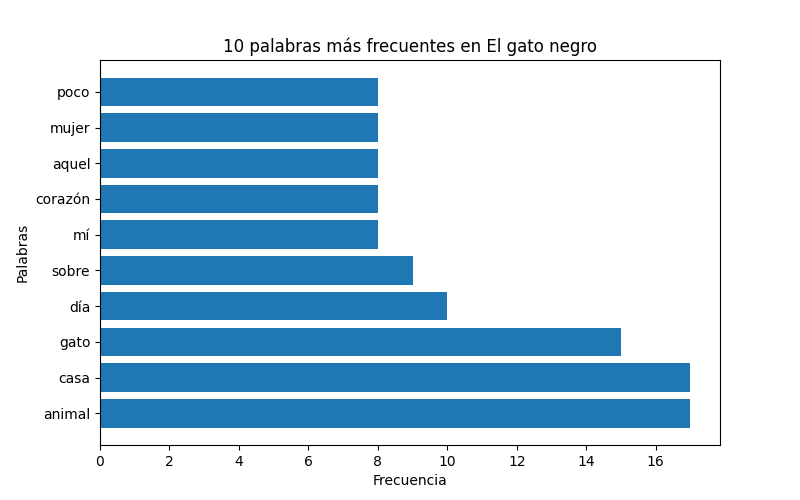
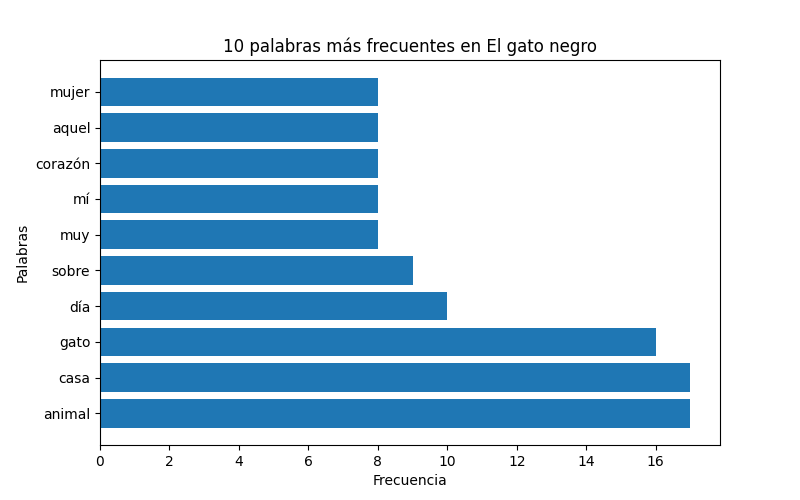
Avances reto

diff --git a/Reto final/menu.py b/Reto final/menu.py
@@ -1,10 +1,15 @@
 from pathlib import Path
 import matplotlib.pyplot as plt
-
-
+conectores = [
+    "de", "la", "el", "y", "que", "en", "un", "una", "los", "las",
+    "a", "con", "por", "para", "del", "se", "al", "es", "mi", "me",
+    "no", "lo", "más", "su", "sus", "tu", "te", "le", "les", "como",
+    "pero", "si", "sí", "ya", "o", "u", "ha", "hay", "fue", "era",
+    "ser", "son", "mis", "sin", "cuando", "había", "vez", "hasta"
+]
+signos = [".", ",", ";", ":", "¿", "?", "¡", "!", '"', "(", ")", "-", "_", "\n"]
 def explorar_directorio():                                #Funcion para la primera opción menu principal
     ruta = input("Ingrese la ruta de la carpeta: ")
-
     carpeta = Path(ruta)
     print("\nArchivos encontrados:\n")
     for archivo in carpeta.iterdir():
@@ -46,56 +51,28 @@ def resumen_txt():                                        #Funcion de la primera
 
             lineas = archivo.readlines()
 
-        # Cantidad de líneas
-        cantidad_lineas = len(lineas)
+        cantidad_lineas = len(lineas)                    #Cantidad de lineas
 
-        # Unir todo el texto
-        texto = " ".join(lineas)
+        texto = " ".join(lineas)                         # Unir todo el texto
 
-        # Caracteres con espacios
-        caracteres_con_espacios = len(texto)
+        caracteres_con_espacios = len(texto)             # Caracteres con espacios
 
         # Caracteres sin espacios
         texto_sin_espacios = texto.replace(" ", "")
+        texto_sin_espacios = texto_sin_espacios.replace("\n", "")
         caracteres_sin_espacios = len(texto_sin_espacios)
 
-        # Separar texto en palabras
-        palabras = texto.split()
+        palabras = texto.split()                          # Separar texto en palabras
 
         palabras_limpias = []
-
-        # Lista de conectores
-        conectores = [
-           "de", "la", "el", "y", "que",
-    "en", "un", "una", "los", "las",
-    "a", "con", "por", "para",
-    "del", "se", "al", "es",
-    "mi", "me", "no", "lo", "más",
-    "su", "sus", "tu", "te",
-    "le", "les", "como", "pero",
-    "si", "sí", "ya", "o",
-    "u", "ha", "hay", "fue",
-    "era", "ser", "son","mis","sin",
-    "cuando","había","vez","hasta"
-
-        ]
 
         # Limpiar palabras
         for palabra in palabras:
 
             palabra = palabra.lower()
 
-            palabra = palabra.replace(".", "")
-            palabra = palabra.replace(",", "")
-            palabra = palabra.replace(";", "")
-            palabra = palabra.replace(":", "")
-            palabra = palabra.replace("¿", "")
-            palabra = palabra.replace("?", "")
-            palabra = palabra.replace("¡", "")
-            palabra = palabra.replace("!", "")
-            palabra = palabra.replace('"', "")
-            palabra = palabra.replace("(", "")
-            palabra = palabra.replace(")", "")
+            for signo in signos:
+                palabra = palabra.replace(signo, "")
 
             # Quitar conectores
             if palabra not in conectores and palabra != "":
@@ -112,8 +89,7 @@ def resumen_txt():                                        #Funcion de la primera
             else:
                 contador_palabras[palabra] = 1
 
-        # Convertir diccionario a lista
-        palabras_ordenadas = list(contador_palabras.items())
+        palabras_ordenadas = list(contador_palabras.items())           # Convertir diccionario a lista
 
         # Método burbuja
         for i in range(len(palabras_ordenadas)):
@@ -170,36 +146,13 @@ def graficar_palabras_frecuentes():                     #Función de la segunda 
 
         palabras_limpias = []
 
-        conectores = [
-            "de", "la", "el", "y", "que",
-    "en", "un", "una", "los", "las",
-    "a", "con", "por", "para",
-    "del", "se", "al", "es",
-    "mi", "me", "no", "lo", "más",
-    "su", "sus", "tu", "te",
-    "le", "les", "como", "pero",
-    "si", "sí", "ya", "o",
-    "u", "ha", "hay", "fue",
-    "era", "ser", "son","mis","sin",
-    "cuando","había","vez","hasta"
-        ]
-
         # Limpiar palabras
         for palabra in palabras:
 
             palabra = palabra.lower()
 
-            palabra = palabra.replace(".", "")
-            palabra = palabra.replace(",", "")
-            palabra = palabra.replace(";", "")
-            palabra = palabra.replace(":", "")
-            palabra = palabra.replace("¿", "")
-            palabra = palabra.replace("?", "")
-            palabra = palabra.replace("¡", "")
-            palabra = palabra.replace("!", "")
-            palabra = palabra.replace('"', "")
-            palabra = palabra.replace("(", "")
-            palabra = palabra.replace(")", "")
+            for signo in signos:
+                palabra = palabra.replace(signo, "")
 
             if palabra not in conectores and palabra != "":
                 palabras_limpias.append(palabra)
@@ -352,6 +305,14 @@ while True:
         explorar_directorio()                           #Llamamos la función de la opción 1
     elif opcion==2:
         menu_1()                                        #Llamamos la función de la opción 2, y se despliega el submenú 1
+    elif opcion == 3:
+        print("Aquí irá la opción para analizar archivo CSV")
+
+    elif opcion == 4:
+        print("Programa finalizado")
+        break
+    else:
+        print("Opción inválida")
     
 
 
